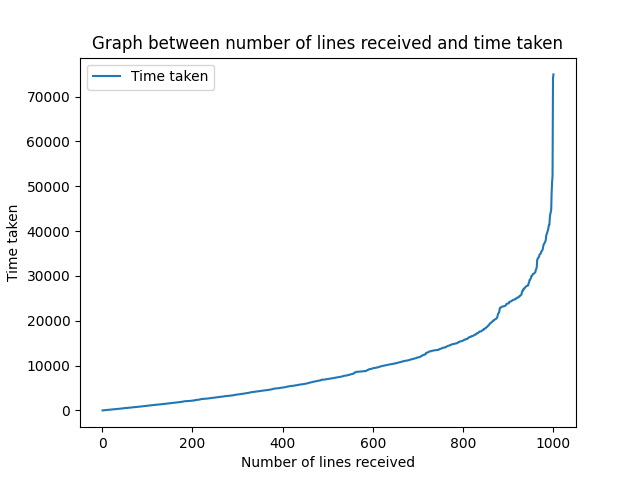
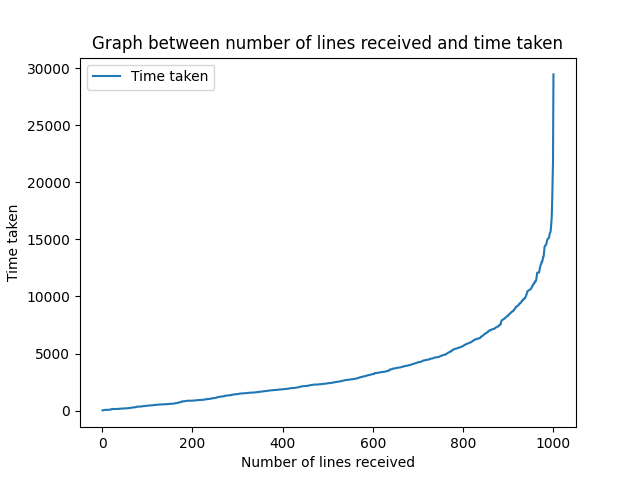
Fix huge bug

diff --git a/Mimicking-Distributed-File-System/src/clientrecv.cpp b/Mimicking-Distributed-File-System/src/clientrecv.cpp
@@ -13,9 +13,7 @@ struct Client_data {
 	bool received[L];
 	string data[L];
 	bool complete;
-	int port[N];
-	const char *ips[N];
-	vector<int> broadcast;
+	int broadcast[L];
 	int clientid;
 };
 
@@ -24,6 +22,7 @@ struct P2P_connection {
 	int socket;
 	char *buffer;
 	int clientid;
+	int max_idx;
 };
 
 void *p2p_recv(void *args){
@@ -43,8 +42,12 @@ void *p2p_recv(void *args){
 		reading = "";
 		while(count < 2){
             int x = recv(sock, buff, BUFFER_SIZE, 0);
+			if(x == 0){
+				// cout << "Connection closed\n";
+				break;
+			}
             if(x < 0){
-                perror("recv");
+                perror("recv2");
                 continue;
             }
             for(int i = 0; i < x; i++){
@@ -85,15 +88,21 @@ void *p2p_recv(void *args){
 				if(!data->needed_data->received[line_num]){
 					data->needed_data->received[line_num] = true;
 					data->needed_data->data[line_num] = line_data;
-
 				}
 				// cout << line_num << endl;
 				#ifdef DEBUG
 					fout << "Received line_num = " << line_num << endl;
 				#endif
 			}	
-			send(data->socket, ack, strlen(ack), MSG_NOSIGNAL);
-
+			int x = send(data->socket, ack, strlen(ack), MSG_NOSIGNAL);
+			if(x < 0){
+				perror("send");
+				continue;
+			}
+			if(x == 0){
+				cout << "Connection closed\n";
+				break;
+			}
 		}
 	}
 	#ifdef DEBUG
@@ -140,10 +149,10 @@ void *clientrecv(void *args){
 	while (connectionchk != N-1){
 		for (int i = 0; i < N; i++){
 			if (i != need_data->clientid && !connected[i]){
-				cout << "Trying to connect " << serv_addrs[i].sin_port << endl;
+				// cout << "Trying to connect " << serv_addrs[i].sin_port << endl;
 				if ((status = connect(receivers[i], (struct sockaddr *)&serv_addrs[i], sizeof(serv_addrs[i]))) < 0){
-					cout << "Couldn't connect. Trying again...\n";
-					perror("connect");
+					// cout << "Couldn't connect. Trying again...\n";
+					// perror("connect");
 					continue;
 				}
 				else{

diff --git a/Mimicking-Distributed-File-System/src/clientburst.cpp b/Mimicking-Distributed-File-System/src/clientburst.cpp
@@ -11,10 +11,9 @@ struct Client_data{
     bool received[L];
     string data[L];
     bool complete;
- 	int port[N];
-	const char *ips[N];
-	vector<int> broadcast;
+	int broadcast[L];
 	int clientid;
+	int max_idx;
 };
 
 void *clientburst(void *args){
@@ -53,7 +52,7 @@ void *clientburst(void *args){
 	while(count < 1){
 		int x = recv(client_fd, buffer, BUFFER_SIZE, 0);
 		if(x < 0){
-			perror("recv");
+			perror("recv3");
 			continue;
 		}
 		for(int i = 0; i < x; i++){
@@ -63,7 +62,6 @@ void *clientburst(void *args){
 		}
 	}
 	assert(str == "Ok\n"); // TODO: can do something better than assert?
-
 	int cnt = 0;
 	while (!needdata->complete) {
 		if(send(client_fd, sendline, strlen(sendline), 0) < 0){
@@ -76,7 +74,7 @@ void *clientburst(void *args){
 		while(count < 2){
             int x = recv(client_fd, buffer, BUFFER_SIZE, 0);
             if(x < 0){
-                perror("recv");
+                perror("recv4");
                 continue;
             }
             for(int i = 0; i < x; i++){
@@ -106,11 +104,13 @@ void *clientburst(void *args){
 			// cout << line_num << endl;
 			needdata->data[line_num] = data;
 			needdata->received[line_num] = true;
-			needdata->broadcast.push_back(line_num);
+			needdata->broadcast[++needdata->max_idx] = line_num;
 		}
 	}
 
-	// cout << "Received: \n" << cnt << " lines from server\n" << L - cnt << " lines from other clients\n";
+	#ifdef DEBUG
+		cout << "Received: \n" << cnt << " lines from server\n" << L - cnt << " lines from other clients\n";
+	#endif
 
 	const char* submit = "SUBMIT\n";
 	while(send(client_fd, submit, strlen(submit), 0) < 0){
@@ -153,7 +153,7 @@ void *clientburst(void *args){
 	while(count < 1){
 		int x = recv(client_fd, buffer, BUFFER_SIZE, 0);
 		if(x < 0){
-			perror("recv");
+			perror("recv1");
 			continue;
 		}
 		for(int i = 0; i < x; i++){

diff --git a/Mimicking-Distributed-File-System/src/clientbroadcast.cpp b/Mimicking-Distributed-File-System/src/clientbroadcast.cpp
@@ -13,10 +13,9 @@ struct Client_data{
     bool received[L];
     string data[L];
     bool complete;
-    int port[N];
-    const char *ips[N];
-    vector<int> broadcast;
+    int broadcast[L];
     int clientid;
+    int max_idx;
 };
 
 struct P2P_connection{
@@ -34,7 +33,7 @@ void *p2p_broadcast(void *args){
         ofstream fout("../logs/send_log_" + to_string(data->clientid) + ".txt");
     #endif
     int sock = data->socket;
-    while (!data->needed_data->complete || (data->broadcast_idx < (int)data->needed_data->broadcast.size())){
+    while (!data->needed_data->complete || (data->broadcast_idx <= data->needed_data->max_idx)){
         if(data->sent){
             int val = recv(sock, data->buffer, BUFFER_SIZE, 0);
             if (val < 0){
@@ -50,17 +49,13 @@ void *p2p_broadcast(void *args){
             }
             else continue;
         }
-        if(data->broadcast_idx < (int)data->needed_data->broadcast.size()){
-            // int i = data->needed_data->broadcast.front();
-            // data->needed_data->broadcast.pop();
+        if(data->broadcast_idx <= data->needed_data->max_idx){
             string temp = "";
-            // int upperboundcount = 0;
-            int lengthofvector = data->needed_data->broadcast.size();
-            while(data->broadcast_idx  < lengthofvector){
+            int lengthofvector = data->needed_data->max_idx;
+            while(data->broadcast_idx  <= lengthofvector){
                 int i = data->needed_data->broadcast[data->broadcast_idx];
                 data->broadcast_idx++;
                 temp += (to_string(i) + "\n" + data->needed_data->data[i]);
-                // upperboundcount++;
             }
             temp += "\n";
             const char *temp1 = temp.c_str();

diff --git a/Mimicking-Distributed-File-System/src/controller.cpp b/Mimicking-Distributed-File-System/src/controller.cpp
@@ -8,10 +8,9 @@ struct Client_data{
     bool received[L];
     string data[L];
     bool complete;
-	int port[N];
-	const char *ips[N];
-    vector<int> broadcast;
+    int broadcast[L];
     int clientid;
+    int max_idx;
 };
 
 void *controller(void *args) {
@@ -21,7 +20,9 @@ void *controller(void *args) {
     #ifdef PLOT
         ofstream fout("../logs/latency.csv");
         fout << "Number of lines received,Time\n";
-        clock_t start = clock();
+        // auto start = time(NULL);
+        // use chrono
+        auto start = std::chrono::high_resolution_clock::now();
         int last_cnt = 0;
     #endif
     while (!data->complete) {
@@ -36,9 +37,13 @@ void *controller(void *args) {
         }
         #ifdef PLOT
             if(received_cnt > last_cnt){
-                clock_t end = clock();
+                // auto end = time(NULL);
+                // use chrono
+                auto end = std::chrono::high_resolution_clock::now();
                 // report the time in milliseconds
-                double time_taken = (double(end - start) * 1000) / double(CLOCKS_PER_SEC);
+                double time_taken = std::chrono::duration_cast<std::chrono::microseconds>(end - start).count();
+                time_taken /= (double)1000;
+                // cout << time_taken << " ms\n";
                 fout << received_cnt << "," << time_taken << endl;
                 last_cnt = received_cnt;
             }

diff --git a/Mimicking-Distributed-File-System/src/driver.cpp b/Mimicking-Distributed-File-System/src/driver.cpp
@@ -9,10 +9,12 @@ struct Client_data{
     bool received[L];
     string data[L];
     bool complete;
-	int port[N];
-    const char *ips[N];
-    vector<int> broadcast;
+	// int port[N];
+    // const char *ips[N];
+    // vector<int> broadcast;
+    int broadcast[L];
     int clientid;
+    int max_idx;
 };
 
 extern void* client(void* args);
@@ -20,17 +22,13 @@ extern void* client(void* args);
 int main(){
 
     // assert((int)client_ips.size() == N);
-    vector<pthread_t> clients(N);
-    vector<struct Client_data> args;
-    vector<int> ports;
-    for(int i = 0; i < N;i++){
-        struct Client_data temp;
-        args.push_back(temp);
-        args[i].complete = 0;
-        args[i].clientid = i;
-        args[i].ips[i] = client_ips[i];
-    }
-    client((void*) &args[client_id]);
+    struct Client_data* args = (struct Client_data*) malloc(sizeof(struct Client_data));
+    args->complete = 0;
+    args->clientid = client_id;
+    args->max_idx = -1;
+    client((void*) &(*args));
     cout << "Completed Session\n";
+    // deallocate memory
+    free(args);
     return 0;
 }

diff --git a/Mimicking-Distributed-File-System/src/constants.h b/Mimicking-Distributed-File-System/src/constants.h
@@ -1,15 +1,15 @@
-#define N 1 // Number of clients
+#define N 3 // Number of clients
 #define L 1000 // Number of lines to receive
 #define PORT 9801 // Self port that connects to the server
 #define PORTS 8080 // Base port for communication with other clients
 #define BUFFER_SIZE 40960 // Buffer size for receiving data
-// static const char* client_ips[N] = {"10.194.14.15", "10.194.46.195", "10.194.25.114","10.194.19.176"}; // IP of clients
-static const char* client_ips[N] = {"10.194.23.67"}; // IP of clients
+static const char* client_ips[N] = {"10.194.23.67", "10.194.46.195",  "10.194.18.144"}; // IP of clients
+// static const char* client_ips[N] = {"10.194.23.67"}; // IP of clients
 #define client_id 0 // Client id of this client
 #define submitID "cs1200397@bitmask\n" // ID used to submit the assignment
-#define serverIP "10.17.51.115"
+#define serverIP "10.17.6.5"
 // #define DEBUG // Comment this line to disable debug messages
-// #define PLOT
+#define PLOT
 #define RETURN(x) do \
 {                                       \
     static int a = x;                     \

diff --git a/Mimicking-Distributed-File-System/src/client.cpp b/Mimicking-Distributed-File-System/src/client.cpp
@@ -13,8 +13,8 @@ struct Client_data{
     bool received[L];
     string data[L];
     bool complete;
-	int port[N];
-	const char *ips[N];
+	// int port[N];
+	// const char *ips[N];
     vector<int> broadcast;
     int clientid;
 };

diff --git a/Mimicking-Distributed-File-System/src/plot.py b/Mimicking-Distributed-File-System/src/plot.py
@@ -22,7 +22,7 @@ def plot_graph(data_file):
         plt.legend()
         # save the plot
         plt.savefig('../plots/latency.png')
-        # plt.show()
+        plt.show()
     except Exception as e:
         print(e)
 
